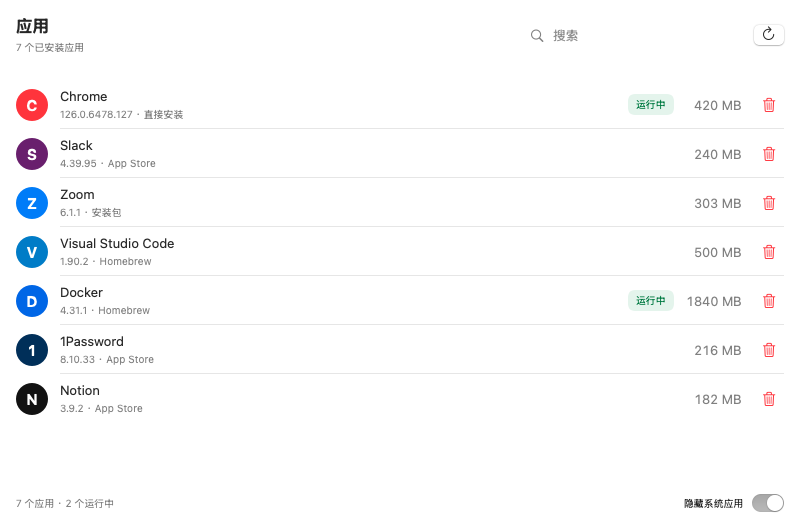
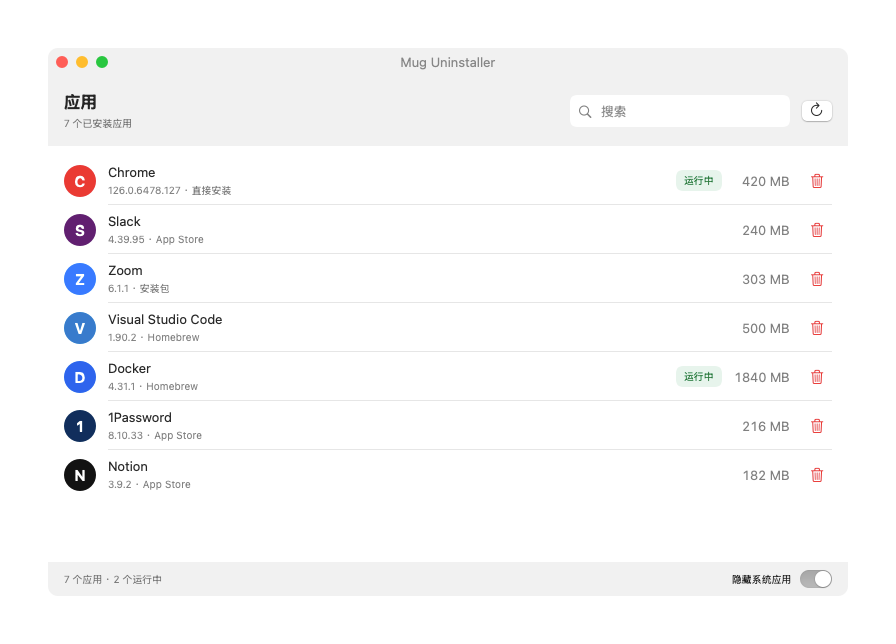
README 截图合成 macOS 窗框（标题栏+红绿灯+圆角）

diff --git a/tools/screenshot/ScreenshotTool.swift b/tools/screenshot/ScreenshotTool.swift
@@ -1,6 +1,6 @@
-// README 截图生成器：mock 数据 + 脱屏 NSHostingView + cacheDisplay → PNG。
-// 说明：ImageRenderer 无法渲染 List(NSTableView)，会输出"禁止"兜底图；
-// 改用真实脱屏窗口离屏捕获，可正确渲染包含 NSTableView 的视图。
+// README 截图生成器：mock 数据 + 脱屏 NSHostingView + cacheDisplay 渲染内容，
+// 再合成 macOS 窗口框（标题栏 + 红绿灯 + 圆角），输出带透明边距的 PNG。
+// ImageRenderer 无法渲染 List(NSTableView)，须走脱屏真实窗口捕获。
 // 无需屏幕录制权限；仅工具进程内启用 mock 开关，不影响正式应用。
 import AppKit
 import SwiftUI
@@ -21,6 +21,7 @@ struct ScreenshotTool {
         let apps = AppScanner.scan()
         capture(AppListView(initialApps: apps).frame(width: 800, height: 520),
                 size: NSSize(width: 800, height: 520),
+                title: "Mug Uninstaller",
                 to: "docs/screenshots/main.png")
 
         // 2) 残留确认页（Chrome，演示高/中/低置信度）
@@ -30,35 +31,86 @@ struct ScreenshotTool {
             capture(LeftoverView(app: chrome, initialResult: leftovers)
                         .frame(width: 720, height: 520),
                     size: NSSize(width: 720, height: 520),
+                    title: "卸载 Chrome",
                     to: "docs/screenshots/uninstall.png")
         }
         print("OK")
     }
 
-    static func capture<V: View>(_ view: V, size: NSSize, to path: String) {
+    /// 渲染视图内容并合成 macOS 窗口框后写 PNG。
+    static func capture<V: View>(_ view: V, size: NSSize, title: String, to path: String) {
+        // 1) 内容区渲染（真实窗口上下文，能画 NSTableView）
         let hosting = NSHostingView(rootView: view)
         hosting.frame = NSRect(origin: .zero, size: size)
-
         let window = NSWindow(contentRect: NSRect(origin: .zero, size: size),
-                              styleMask: .borderless,
-                              backing: .buffered,
-                              defer: false)
+                              styleMask: .borderless, backing: .buffered, defer: false)
         window.isReleasedWhenClosed = false
         window.contentView = hosting
-        window.orderBack(nil)   // 挂到窗口服务器以获得正确 AppKit 渲染上下文
-
+        window.orderBack(nil)
         hosting.layoutSubtreeIfNeeded()
         guard let rep = hosting.bitmapImageRepForCachingDisplay(in: hosting.bounds) else {
-            fputs("位图失败 \(path)\n", stderr)
-            exit(1)
+            fputs("位图失败 \(path)\n", stderr); exit(1)
         }
         hosting.cacheDisplay(in: hosting.bounds, to: rep)
-        guard let png = rep.representation(using: .png, properties: [:]) else {
-            fputs("PNG 失败 \(path)\n", stderr)
-            exit(1)
+        window.close()
+
+        let contentImage = NSImage(size: NSSize(width: rep.pixelsWide, height: rep.pixelsHigh))
+        contentImage.addRepresentation(rep)
+
+        // 2) 合成 macOS 窗框（浅色主题）
+        let pad: CGFloat = 48        // 四周透明边距（圆角/影子视觉空间）
+        let barH: CGFloat = 28       // 标题栏高度
+        let radius: CGFloat = 10     // 窗口圆角
+        let cw = size.width
+        let ch = size.height
+        let out = NSImage(size: NSSize(width: cw + pad * 2, height: ch + barH + pad * 2),
+                          flipped: false) { rect in
+            let w = rect.width, h = rect.height
+            // 透明背景
+            NSColor.clear.set()
+            rect.fill()
+
+            // 窗口底（浅灰，与内容顶部背景衔接）
+            let winTop = rect.maxY - pad            // 窗口顶部 y
+            let winRect = NSRect(x: pad, y: pad, width: cw, height: ch + barH)
+            let winPath = NSBezierPath(roundedRect: winRect, xRadius: radius, yRadius: radius)
+            NSColor(calibratedWhite: 0.93, alpha: 1).setFill()  // 近似 windowBackground 浅色
+            winPath.fill()
+
+            // 标题栏居中文字
+            let titleAttrs: [NSAttributedString.Key: Any] = [
+                .font: NSFont.systemFont(ofSize: 13),
+                .foregroundColor: NSColor(calibratedWhite: 0.45, alpha: 1),
+            ]
+            let titleStr = NSAttributedString(string: title, attributes: titleAttrs)
+            let tsz = titleStr.size()
+            titleStr.draw(at: NSPoint(x: w / 2 - tsz.width / 2,
+                                      y: winTop - barH / 2 - tsz.height / 2))
+
+            // 红绿灯
+            let lights: [NSColor] = [
+                NSColor(red: 1.00, green: 0.37, blue: 0.34, alpha: 1),
+                NSColor(red: 1.00, green: 0.74, blue: 0.18, alpha: 1),
+                NSColor(red: 0.16, green: 0.78, blue: 0.25, alpha: 1),
+            ]
+            let lightCY = winTop - barH / 2
+            for (i, c) in lights.enumerated() {
+                c.setFill()
+                NSBezierPath(ovalIn: NSRect(x: pad + 14 + CGFloat(i) * 20 - 6,
+                                            y: lightCY - 6, width: 12, height: 12)).fill()
+            }
+
+            // 内容区（底部）
+            contentImage.draw(in: NSRect(x: pad, y: pad, width: cw, height: ch))
+            return true
+        }
+
+        guard let tiff = out.tiffRepresentation,
+              let outRep = NSBitmapImageRep(data: tiff),
+              let png = outRep.representation(using: .png, properties: [:]) else {
+            fputs("PNG 失败 \(path)\n", stderr); exit(1)
         }
         try! png.write(to: URL(fileURLWithPath: path))
-        window.close()
-        print("已生成 \(path)（\(rep.pixelsWide)x\(rep.pixelsHigh)）")
+        print("已生成 \(path)（\(outRep.pixelsWide)x\(outRep.pixelsHigh)）")
     }
 }
